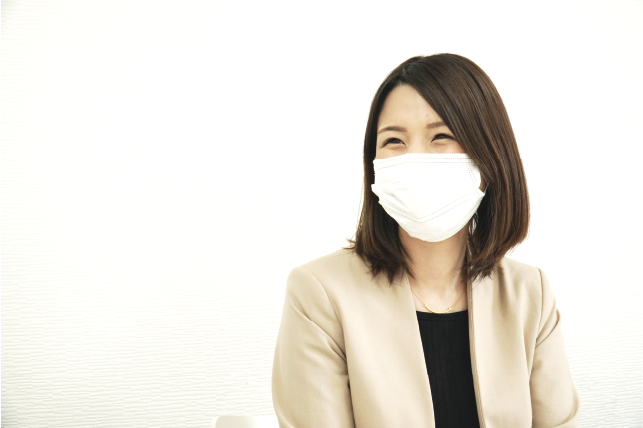
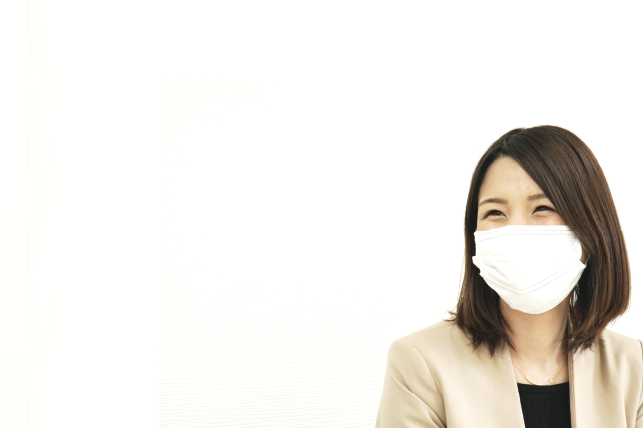
commit

diff --git a/index.html b/index.html
@@ -80,10 +80,15 @@
 
       <section class="curriculumn top-section" title="Curriculumn">
         <h2 class="curriculumn-title top-section-title">カリキュラムについて</h2>
-        <picture class="staff-photo-holder">
-          <img class="staff-photo" src="asset/images/staff-photo03.png" width="621" height="414" alt="就労移行支援事業所ハートフルACE(エース)スタッフ">
-        </picture>
-        <p class="curriculumn-staff-message staff-message">ACE(エース)といえばなんと行ってもカリキュラム。パソコン、メンタルヘルス、就職活動など様々な場面で役立つACE(エース)オリジナルの授業をお届けしています。きっとあなたの力になると思います。</p>
+        <div class="curriculumn-staff-message-holder staff-message-holder">
+          <picture class="staff-photo-holder">
+            <img class="staff-photo" src="asset/images/staff-photo03.png" width="621" height="414" alt="就労移行支援事業所ハートフルACE(エース)スタッフ">
+          </picture>
+          <div class="staff-message-wrapper">
+            <img class="curriculumn-staff-message-bg staff-message-bg" src="asset/images/baloon02.svg" width="351" height="116" alt="吹き出し">
+            <p class="curriculumn-staff-message staff-message">ACE(エース)といえばなんと行ってもカリキュラム。パソコン、メンタルヘルス、就職活動など様々な場面で役立つACE(エース)オリジナルの授業をお届けしています。きっとあなたの力になると思います。</p>
+          </div>
+        </div>
         <section class="curriculumn-weekly-schedule">
           <dl class="curriculumn-time-table">
             <dt>カリキュラム</dt>
@@ -180,10 +185,15 @@
               </dl>
             </dd>
           </dl>
-          <picture class="staff-photo-holder">
-            <img class="staff-photo" src="asset/images/staff-photo02.png" width="643" height="428" alt="ハートフルACEスタッフ">            
-          </picture>
-          <p class="activities-schedule-message staff-message">一日のスケジュールはあくまでも参考例です。短時間や午後からの利用の方もいらっしゃいます。また、働きながらの利用や休職中の方もご利用いただけます。</p>
+          <div class="activities-staff-message-holder staff-message-holder">
+            <picture class="staff-photo-holder">
+              <img class="staff-photo" src="asset/images/staff-photo02.png" width="643" height="428" alt="ハートフルACEスタッフ">            
+            </picture>
+            <div class="staff-message-wrapper">
+              <img class="activities-staff-message-bg staff-message-bg" src="asset/images/baloon02.svg" width="351" height="116" alt="吹き出し">
+              <p class="activities-schedule-message staff-message">一日のスケジュールはあくまでも参考例です。短時間や午後からの利用の方もいらっしゃいます。また、働きながらの利用や休職中の方もご利用いただけます。</p>
+            </div>
+          </div>
         </section>
       </section>
 

diff --git a/asset/css/style.scss b/asset/css/style.scss
@@ -681,4 +681,3 @@ a {
   width: fit-content;
   margin: 16px auto;
 }
-
